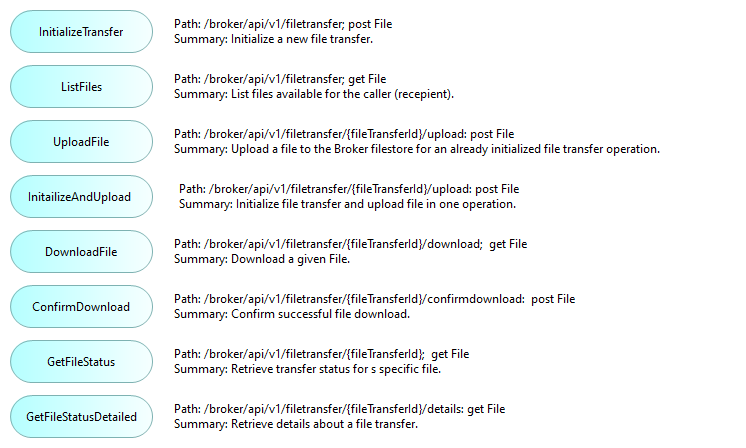
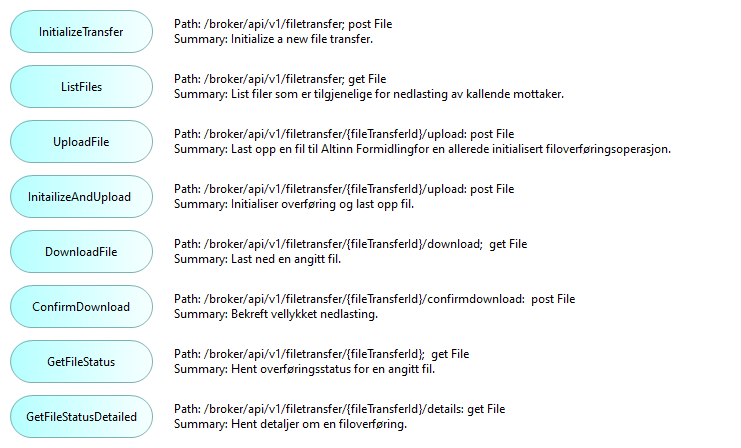
Altinn Broker translation

diff --git a/content/broker/solution-architecture/_index.nb.md b/content/broker/solution-architecture/_index.nb.md
@@ -1,18 +1,19 @@
 ---
-title: Altinn 3 Broker Solution Architecture
-linktitle:  Solution Architecture
-description: Altinn 3 Broker solution architecture for basic use cases of Managed File Transfers.
+title: Grunnleggende løsningsarkitektur
+linktitle:  Løsningsarkitektur
+description: Altinn 3 Formidling grunnleggende løsningsarkitektur
 tags: []
 toc: true
 weight: 50
 ---
 
 {{<notice info>}} <!-- info -->
-The solution architecture described here is the foundation architecture for Altinn Broker,
-as relevant for the basic use cases of managed file transfers. 
-Further descriptions of the solution architecture related to advanced use cases
-and possible future extensions 
-will build on this foundation architecture.
+
+Løsningsarkitekturen beskrevet her er grunnarkitekturen for Altinn Broker, 
+slik den er relevant for de grunnleggende brukstilfellene av styrte filoverføringer. 
+Ytterligere beskrivelser av løsningsarkitekturen relatert til avanserte brukstilfeller 
+og mulige fremtidige utvidelser vil bygge på denne grunnarkitekturen.
+
 {{</notice>}}
 
 
@@ -20,7 +21,7 @@ will build on this foundation architecture.
 {{<children />}}  
 -->
 
-## Guiding Architecture Principles
+## Veiledende arkitekturprinsipper
 
 ### Overarching architectural principles for digitization of the public sector
 

diff --git a/content/broker/possible-future-extensions/_index.nb.md b/content/broker/possible-future-extensions/_index.nb.md
@@ -1,10 +1,10 @@
 ---
-title: Altinn 3 Broker Future Extensions 
-linktitle: Possible Future Extensions 
-description: Altinn 3 Broker Anticipated and Possible Future Extensions 
+title: Mulige framtidige utvidelser
+linktitle: Mulige utvidelser
+description: Altinn 3 Formidling mulige framtidige utvidelser
 tags: []
 toc: true
-weight: 90
+weight: 80
 ---
 
 {{<notice warning>}} <!-- info -->

diff --git a/content/broker/user-guides/_index.nb.md b/content/broker/user-guides/_index.nb.md
@@ -1,9 +1,9 @@
 ---
-title: Altinn 3 Formidling brukerveiledninger
+title: Brukerveiledninger
 linktitle: Brukerveiledninger
-description: Hvordan komme i gang med Altinn 3 Formidling, for utviklere tjenesteeiere og sluttbrukere
+description: Hvordan komme i gang med Altinn 3 Formidling, for utviklere tjenesteeiere og sluttbrukere?
 toc: true
-weight: 80
+weight: 90
 ---
 
 {{<children />}}

diff --git a/content/broker/introduction/_index.nb.md b/content/broker/introduction/_index.nb.md
@@ -1,5 +1,5 @@
 ---
-title: Altinn Broker Introduksjon
+title: Introduksjon
 linktitle: Introduksjon
 description: Introduksjon til Altinn Formidling.
 tags: []
@@ -8,6 +8,7 @@ weight: 1
 ---
 
 ## Hva er Altinn Formidling?
+
 
 Hovedbruksområdet for Altinn Broker er styrt filoverføring (Managed File Transfer - MFT), 
 med sikker overføring av filer av vilkårlig størrelse 

diff --git a/content/broker/advanced-use-cases/_index.nb.md b/content/broker/advanced-use-cases/_index.nb.md
@@ -1,7 +1,7 @@
 ---
-title: Altinn 3 Broker Advanced Use Cases 
-linktitle: Advanced Use Cases 
-description: Altinn 3 Broker Advanced Use Cases 
+title: Avanserte brukstilfeller
+linktitle: Avanserte brukstilfeller 
+description: Altinn 3 Formidling avanserte brukstilfeller
 tags: []
 toc: true
 weight: 60

diff --git a/content/broker/possible-future-extensions/_index.en.md b/content/broker/possible-future-extensions/_index.en.md
@@ -4,13 +4,12 @@ linktitle: Possible Future Extensions
 description: Altinn 3 Broker Anticipated and Possible Future Extensions 
 tags: []
 toc: true
-weight: 90
+weight: 80
 ---
 
 {{<notice warning>}} <!-- info -->
 This is work in progress
 {{</notice>}}
-
 
 ## Extension: Dialogporten integration
 

diff --git a/content/broker/capabilities/_index.nb.md b/content/broker/capabilities/_index.nb.md
@@ -1,7 +1,7 @@
 ---
-title: Altinn 3 Formidling funksjonalitet
+title: Funksjonalitet og egenskaper
 linktitle: Funksjonalitet
-description: Altinn 3 Formidling funksjonalitet
+description: Altinn 3 Formidling funksjonalitet og egenskaper
 tags: []
 toc: true
 weight: 15

diff --git a/content/broker/security/_index.nb.md b/content/broker/security/_index.nb.md
@@ -1,7 +1,7 @@
 ---
-title: Information Security
-linktitle: Security
-description: Altinn 3 Broker Information Security
+title: Informasjonssikkerhet
+linktitle: Sikkerhet
+description: Altinn 3 Formidling informasjonssikkerhet
 tags: []
 toc: true
 weight: 55

diff --git a/content/broker/basic-concepts/_index.nb.md b/content/broker/basic-concepts/_index.nb.md
@@ -1,5 +1,5 @@
 ---
-title: Altinn Formidling grunnleggende konsepter og begreper
+title: Grunnleggende konsepter og begreper
 linktitle: Konsepter og begreper
 description: Altinn 3 Formidling grunnleggende konsepter og begreper.
 tags: []

diff --git a/content/broker/user-guides/_index.en.md b/content/broker/user-guides/_index.en.md
@@ -4,7 +4,7 @@ linktitle: User Guides
 description: How to get started with Altinn 3 Broker, for service owners, users and developers
 tags: []
 toc: true
-weight: 80
+weight: 90
 ---
 
 {{<children />}}
